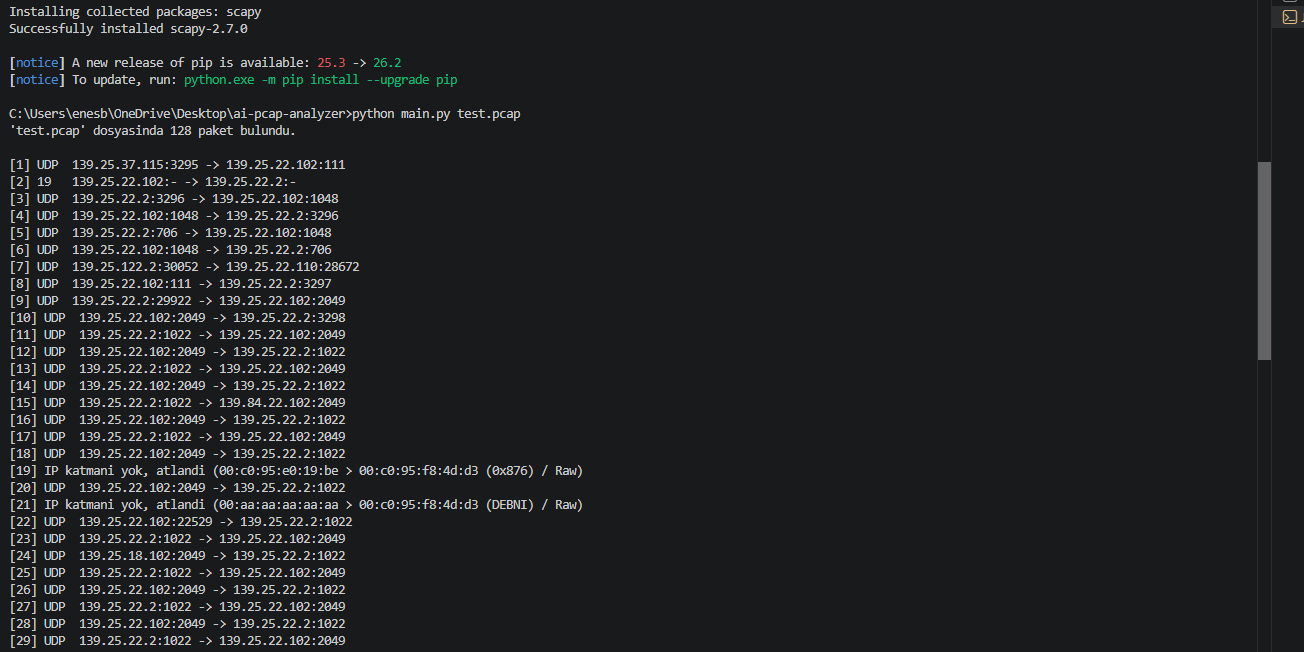
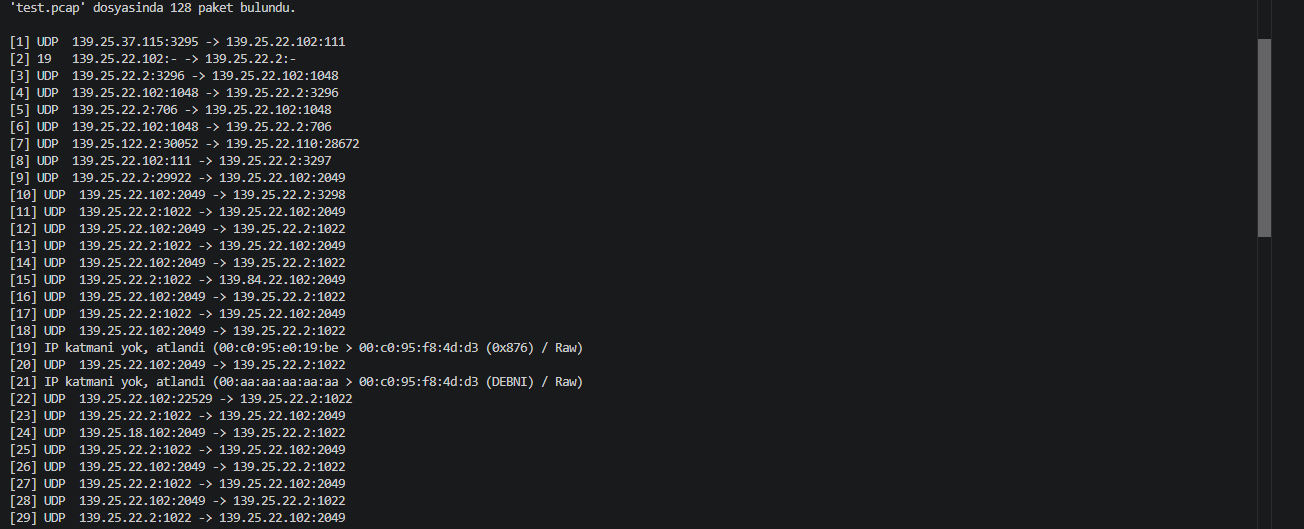
docs: README profesyonel sekilde guncellendi + ekran goruntuleri eklendi
- README artik giris, ana panel ve analiz kokpiti ekran goruntuleriyle
  gercek ozellik setini (Gemini/Ollama destegi, guvenlik katmanlari,
  web arayuzu) yansitiyor; tamamlanan roadmap maddeleri kaldirildi.
- assets/: 3 yeni ekran goruntusu eklendi, eski terminal ciktisi
  kullanici adi icermeyecek sekilde yeniden kirpildi.
- app.py: Windows'ta stdout/stderr Turkce karakter icin UTF-8'e
  zorlandi - konsol kodlamasina bagli UnicodeEncodeError cokmesi
  giderildi.

diff --git a/app.py b/app.py
@@ -5,6 +5,7 @@ web arayüzünden doğrudan canlı ağ trafiği yakalama işlemlerini yönetir."
 
 import os
 import re
+import sys
 import secrets
 import hmac
 import tempfile
@@ -17,6 +18,14 @@ import socket
 from logging.handlers import RotatingFileHandler
 from urllib.parse import urlparse
 from datetime import datetime, timedelta
+
+# Windows'ta konsol/ciktiyi bir dosyaya yonlendirirken (veya bazi kod
+# sayfalarinda) varsayilan stdout/stderr encoding'i cp1252 gibi Turkce
+# karakterleri barindiramayan bir kodlamaya dusebiliyor; bu durumda print()
+# UnicodeEncodeError ile uygulamayi hic baslamadan cokertiyordu.
+for _stream in (sys.stdout, sys.stderr):
+    if hasattr(_stream, "reconfigure") and (_stream.encoding or "").lower() != "utf-8":
+        _stream.reconfigure(encoding="utf-8", errors="replace")
 
 from dotenv import load_dotenv
 from flask import Flask, render_template, request, jsonify, session, redirect, url_for

diff --git a/README.md b/README.md
@@ -1,29 +1,68 @@
 # 🛡 AI-PCAP-Analyzer
 
-Üniversitedeki Wireshark ağ analizi ve kriptoloji derslerinde edindiğim teorik temelleri, modern Yapay Zeka teknolojileriyle harmanlayarak gerçek dünya senaryolarında kullanmak üzere geliştirdiğim açık kaynaklı bir ağ trafiği analiz aracı.
+Üniversitede aldığım ağ analizi ve kriptoloji derslerinde edindiğim teorik temeli, yapay zeka destekli araçlarla birleştirip gerçek bir problemi çözmek için geliştirdiğim açık kaynaklı bir ağ trafiği analiz platformu.
 
-Wireshark gibi araçlar ağ trafiğini incelemede müthiş güçlü olsa da, binlerce satırlık paket dökümü arasında kaybolmak yorucu olabiliyor. Bu proje; bir `.pcap` dosyasını (ya da canlı ağ trafiğini) otomatik olarak özetleyip, akış bazlı istatistikler çıkarıp, isteğe bağlı olarak **Claude (Anthropic)** ile şüpheli davranışları doğal dilde yorumlayan pratik bir asistan olmayı hedefliyor.
+Wireshark gibi araçlar paket paket incelemede çok güçlü, ama binlerce satırlık dökümün içinde "burada bir sorun mu var?" sorusuna hızlı cevap bulmak zor oluyor. Bu proje tam olarak bunu hedefliyor: bir `.pcap` dosyasını (ya da canlı ağ trafiğini) otomatik olarak özetleyip, imza tabanlı bir kural motoruyla şüpheli davranışları işaretleyip, isteğe bağlı olarak yapay zekaya (Claude, Gemini ya da yerel Ollama modeliyle) yorumlatan, hem terminalden hem web arayüzünden kullanılabilen bir asistan.
+
+---
+
+## 📸 Ekran Görüntüleri
+
+<table>
+<tr>
+<td width="50%">
+
+**Giriş ekranı**
+Uygulama ilk açıldığında otomatik oluşturulan bir sistem şifresiyle korunuyor.
+
+![Giriş ekranı](assets/02-giris-ekrani.png)
+
+</td>
+<td width="50%">
+
+**Ana panel**
+Dosya yükleme ve canlı ağ dinleme aynı ekrandan yönetiliyor; aktif internet bağlantısı olan ağ kartı otomatik öneriliyor.
+
+![Ana panel](assets/03-ana-panel.png)
+
+</td>
+</tr>
+</table>
+
+**Analiz kokpiti** — tehdit listesi, IP/trafik ilişki grafiği, protokol dağılımı ve akış tablosu tek ekranda:
+
+![Analiz kokpiti](assets/04-analiz-kokpiti.png)
+
+**Terminalden çıktı** (CLI kullanımı):
+
+![Terminal çıktısı](assets/01-terminal-udp-analiz-ciktisi.png)
 
 ---
 
 ## ✨ Özellikler
 
+### Analiz motoru
 - **Protokol ayrıştırma** — IP, TCP, UDP, ARP, DNS (sorgu/yanıt), HTTP (istek/yanıt), TLS (ClientHello SNI)
 - **Akış bazlı trafik özeti** — protokol dağılımı, en çok trafiğe karışan IP'ler, en çok hedeflenen portlar
-- **Basit port taraması tespiti** — bir kaynak IP kısa sürede çok sayıda farklı porta temas ederse otomatik uyarı
-- **Yapay zeka destekli analiz** — `--ai` bayrağıyla paket özetleri ve trafik özeti Claude'a gönderilip Türkçe, insan tarafından okunabilir bir rapor alınır
-- **Web arayüzü** — Flask tabanlı, dosya yükle → sonucu tarayıcıda gör
-- **Canlı paket yakalama** — `capture.py` ile ağ trafiğini gün boyu arka planda dinleyip, süre dolunca ya da durdurulunca özet rapor üretme
+- **Kural tabanlı tehdit tespiti** — 14 farklı imza/heuristik kural: port taraması, ARP spoofing, DoS/SYN flood, SQL injection, XSS, path traversal, şüpheli tarama araçları (nmap/sqlmap/nikto vb.), açık metin kimlik bilgisi/FTP sızıntısı, bilinen kötü amaçlı portlar
 - **Bozuk/eksik paketlere dayanıklı** — hatalı katmanlı paketler programı çökertmeden atlanır
-- **Test paketi** — pytest ile ayrıştırma mantığı ve AI entegrasyonu (mock istemciyle) test edilir
 
----
+### Yapay zeka desteği
+- Üç farklı sağlayıcı arasında seçim: **Claude (Anthropic)**, **Google Gemini**, ya da tamamen çevrimdışı çalışan **Ollama** (yerel model)
+- Paket özetleri ve kural motorunun bulguları modele gönderilip Türkçe, okunabilir bir güvenlik raporu üretiliyor
 
-## 📸 Örnek Çıktı
+### Web arayüzü
+- Dosya yükleyip sonucu tarayıcıda görme, ya da seçilen ağ kartından **canlı yakalama** başlatma
+- Analiz sonuçları; tehdit ağacı, IP ilişki grafiği (vis-network), protokol dağılım grafiği (Chart.js) ve aranabilir/sayfalanabilir paket tablosu ile "kokpit" tarzı tek ekranda sunuluyor
+- API anahtarları (Claude/Gemini/Ollama) arayüzdeki ayarlar panelinden, terminale hiç dokunmadan yönetilebiliyor
 
-Bir "fuzzing" PCAP dosyası üzerindeki terminal analiz çıktısı:
-
-![Terminal Çıktısı](assets/01-terminal-udp-analiz-ciktisi.png)
+### Güvenlik
+Bu bir ağ güvenliği aracı olduğu için kendi güvenliğine de aynı ciddiyetle yaklaştım:
+- Şifre + oturum tabanlı kimlik doğrulama (ilk çalıştırmada otomatik oluşturulur), 2 saatlik oturum zaman aşımı
+- Tüm formlar CSRF korumalı, güvenlik başlıkları (CSP, X-Frame-Options, HSTS vb.) uygulanıyor
+- Yakalanan/yüklenen `.pcap` dosyaları işlendikten hemen sonra üzerine yazılarak güvenli şekilde siliniyor
+- API anahtarı isteyen `OLLAMA_API_URL` gibi ayarlar SSRF'e karşı doğrulanıyor, hassas endpoint'ler rate-limit'li
+- Loglardaki olası API anahtarı/şifre izleri otomatik maskeleniyor
 
 ---
 
@@ -32,10 +71,11 @@ Bir "fuzzing" PCAP dosyası üzerindeki terminal analiz çıktısı:
 - **Python** — çekirdek mantık
 - **Scapy** — paket okuma/ayrıştırma (IP, TCP, UDP, ARP, DNS, HTTP, TLS)
 - **cryptography** — Scapy'nin TLS katmanı için
-- **Anthropic Claude API** — yapay zeka destekli anomali/şüpheli davranış analizi
-- **Flask** — web arayüzü
-- **pytest** — test paketi
-- **python-dotenv** — `.env` ile API anahtarı yönetimi
+- **Anthropic Claude / Google Gemini / Ollama** — yapay zeka destekli analiz
+- **Flask** + **Flask-Limiter** + **Flask-WTF** — web arayüzü, rate limiting, CSRF koruması
+- **Chart.js** / **vis-network** — analiz kokpitindeki grafikler
+- **pytest** + **bandit** — test paketi ve statik güvenlik taraması
+- **python-dotenv** — `.env` ile yapılandırma yönetimi
 
 ---
 
@@ -48,16 +88,12 @@ cd ai-pcap-analyzer
 
 # Gerekli kütüphaneleri yükleyin
 pip install -r requirements.txt
-```
 
-Yapay zeka analizini kullanmak için bir [Anthropic API anahtarı](https://console.anthropic.com/settings/keys) gerekir:
-
-```bash
 # .env.example dosyasini .env olarak kopyalayin
 cp .env.example .env
-
-# .env dosyasini acip ANTHROPIC_API_KEY=... satirina kendi anahtarinizi yazin
 ```
+
+Yapay zeka analizini kullanmak istiyorsanız `.env` dosyasına en az bir sağlayıcının anahtarını ekleyin — [Anthropic](https://console.anthropic.com/settings/keys) ya da [Google AI Studio](https://aistudio.google.com/) üzerinden ücretsiz alabilirsiniz. Hiçbirini eklemeseniz de web arayüzündeki ayarlar panelinden sonradan girebilirsiniz. Ollama kullanacaksanız [ollama.com](https://ollama.com/)'dan indirip yerelde çalıştırmanız yeterli.
 
 `.env` dosyası `.gitignore`'dadır, GitHub'a asla gönderilmez.
 
@@ -65,20 +101,20 @@ cp .env.example .env
 
 ## 🚀 Kullanım
 
-### 1. Komut satırı — var olan bir pcap dosyasını analiz et
-
-```bash
-python main.py ornek.pcap
-python main.py ornek.pcap --ai   # + yapay zeka yorumu
-```
-
-### 2. Web arayüzü — dosya yükle, tarayıcıda gör
+### 1. Web arayüzü — dosya yükle veya canlı dinle, tarayıcıda gör
 
 ```bash
 python app.py
 ```
 
-Ardından tarayıcıda `http://127.0.0.1:5000` adresine gidin, bir `.pcap`/`.pcapng` dosyası seçin, isterseniz "Yapay zeka ile analiz et" kutusunu işaretleyin.
+`http://127.0.0.1:5000` adresine gidin. İlk çalıştırmada terminalde otomatik oluşturulan bir giriş şifresi gösterilir (`.env` dosyasındaki `APP_PASSWORD` ile de kendi şifrenizi belirleyebilirsiniz).
+
+### 2. Komut satırı — var olan bir pcap dosyasını analiz et
+
+```bash
+python main.py ornek.pcap
+python main.py ornek.pcap --ai   # + yapay zeka yorumu
+```
 
 ### 3. Canlı yakalama — arka planda çalışıp özet rapor üret
 
@@ -87,10 +123,10 @@ python capture.py --sure 480 --ai --kaydet-pcap
 ```
 
 - `--sure DAKIKA` — belirtilen süre sonunda otomatik durur (belirtilmezse `Ctrl+C` ile durdurulur)
-- `--ai` — bitince trafiği Claude ile de yorumlatır
+- `--ai` — bitince trafiği yapay zeka ile de yorumlatır
 - `--kaydet-pcap` — ham paketleri de bir `.pcap` dosyasına kaydeder (Wireshark'ta incelemek için)
 
-Rapor ve (varsa) `.pcap` dosyası `captures/` klasörüne kaydedilir (bu klasör de `.gitignore`'dadır — gerçek ağ trafiği hassas veri sayılır).
+Rapor ve (varsa) `.pcap` dosyası `captures/` klasörüne kaydedilir (bu klasör `.gitignore`'dadır — gerçek ağ trafiği hassas veri sayılır).
 
 > **Not:** Canlı yakalama Windows'ta [Npcap](https://npcap.com/) gerektirir (Wireshark kuruluysa genelde zaten kuruludur). Bazı kurulumlarda terminali "Yönetici olarak çalıştır" ile açmanız gerekebilir.
 
@@ -103,7 +139,12 @@ pip install -r requirements-dev.txt
 pytest -v
 ```
 
-Testler gerçek Anthropic API'sine istek atmaz — sahte (mock) bir istemci kullanır.
+Testler gerçek AI sağlayıcılarına istek atmaz — sahte (mock) istemciler kullanır. Ayrıca statik güvenlik taraması için:
+
+```bash
+pip install bandit
+bandit app.py main.py -q
+```
 
 ---
 
@@ -111,10 +152,11 @@ Testler gerçek Anthropic API'sine istek atmaz — sahte (mock) bir istemci kull
 
 ```
 main.py       - CLI aracı + paket ayrıştırma / trafik istatistiği çekirdek mantığı
-app.py        - Flask web arayüzü
+app.py        - Flask web arayüzü, kimlik doğrulama, güvenlik katmanları
+rules.py      - imza/heuristik tabanlı tehdit tespit kural motoru
 capture.py    - canlı paket yakalama ve gün sonu özet raporu
 templates/    - web arayüzü HTML şablonları
-static/       - web arayüzü CSS'i
+static/       - web arayüzü CSS ve JS'i
 tests/        - pytest test paketi
 ```
 
@@ -122,8 +164,8 @@ tests/        - pytest test paketi
 
 ## 🗺 Yol Haritası
 
-- [ ] Canlı yakalamayı web arayüzünden de başlatabilme
 - [ ] Analiz sonuçlarını JSON/Markdown olarak dışa aktarma
 - [ ] Daha fazla protokol desteği (ICMP detayları, QUIC vb.)
+- [ ] Çoklu kullanıcı desteği ve rol tabanlı yetkilendirme
 
 Bu proje aktif olarak, gün gün geliştirilmeye devam ediyor.
